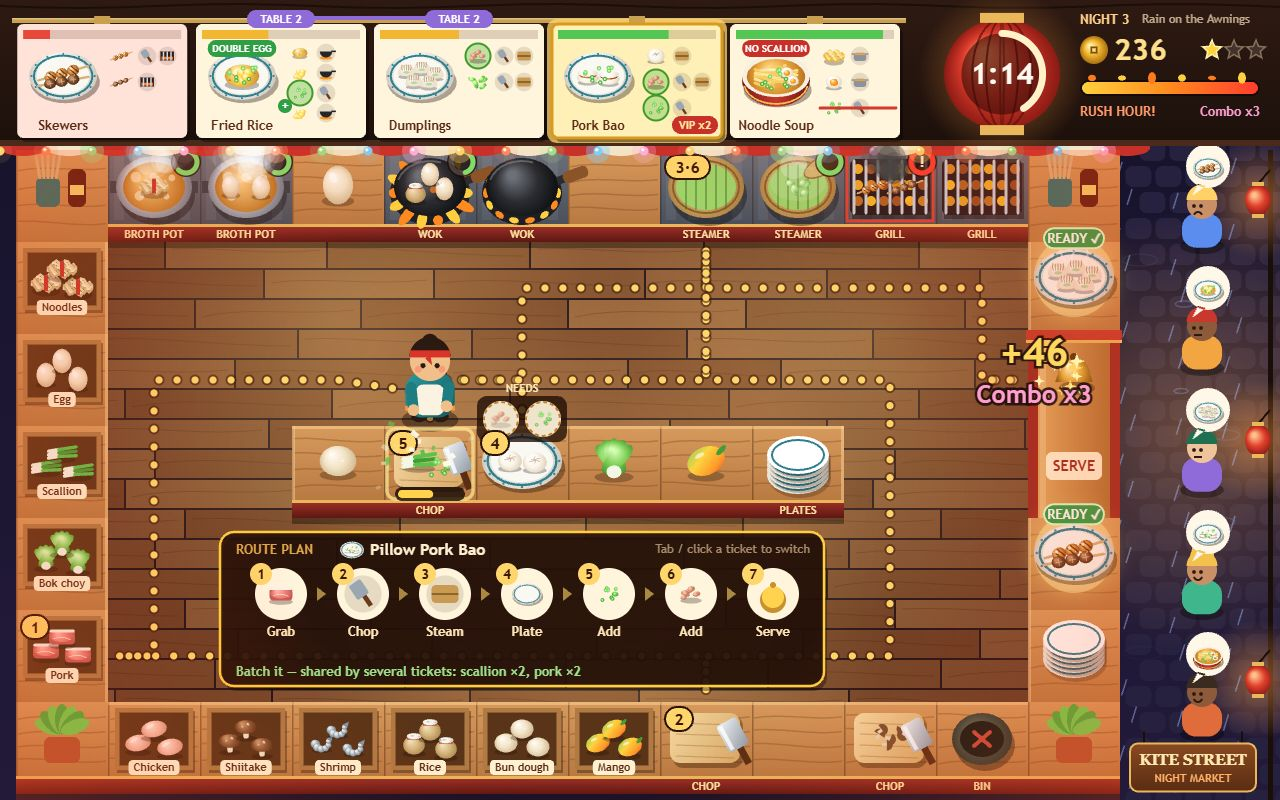
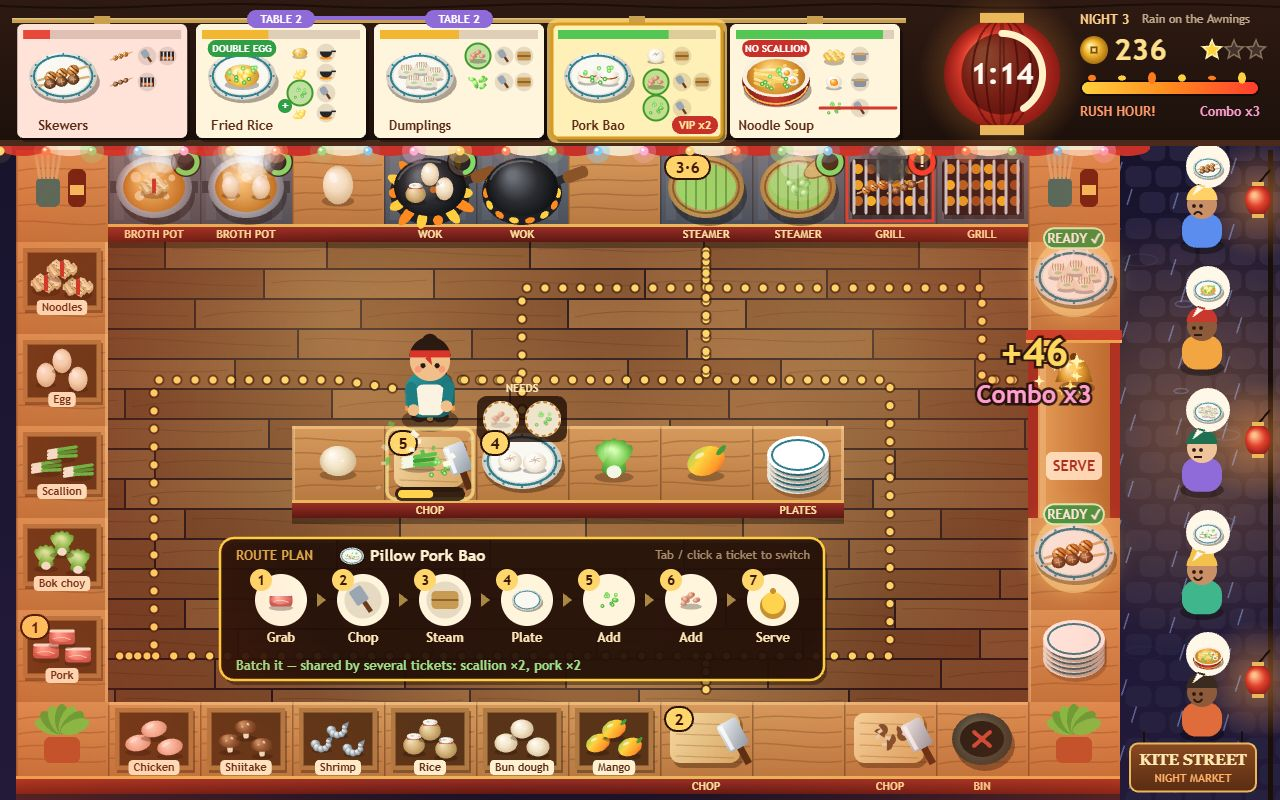
Last-call fireworks shot, shared parts in the recipe book, critic look, plating sparkle, play-test extras and upgrades; README; LF endings

Changed region(s): [[0.1562, 0.6562, 0.6562, 0.875]]

diff --git a/game/src/shots.js b/game/src/shots.js
@@ -1,4 +1,4 @@
-// The deterministic screenshot scenes behind ?shot=rush|rush-hour|recipes|results.
+// The deterministic screenshot scenes behind ?shot=rush|last-call|recipes|results.
 import { STEP } from './config.js';
 import { createRandom } from './random.js';
 import { createShift } from './shift.js';
@@ -123,37 +123,40 @@ function stageRush(seed) {
 	return { state, screen: 'play', ui: { time: 0 } };
 }
 
-function stageRushHour(seed) {
+function stageLastCall(seed) {
 	const state = createShift(3, createRandom(seed));
-	state.timeLeft = 106;
+	state.timeLeft = 24;
 	state.rushAnnounced = true;
-	state.banner = { text: 'Rush hour!', sub: 'The lanterns are lit and the street is full', time: 1.2 };
-	state.coins = 168;
-	state.combo = 4;
-	state.bestCombo = 4;
+	state.banner = null;
+	state.coins = 318;
+	state.combo = 5;
+	state.bestCombo = 6;
 	setOrders(state, [
-		['shrimpsoup', 0.3],
-		['dumplings', 0.5],
-		['mango', 0.64],
-		['bao', 0.8],
-		['friedrice', 0.96],
+		['shrimpsoup', 0.3, { table: 5 }],
+		['mango', 0.52, { table: 5, extra: extraByLabel('mango', 'Extra mango') }],
+		['friedrice', 0.62, { critic: true }],
+		['soup', 0.78, { extra: extraByLabel('soup', 'Add shrimp') }],
+		['dumplings', 0.95],
 	]);
-	state.orders[3].vip = true;
+	state.focusId = state.orders[1].id;
+	cook(state, 1, 0, 'noodles', 'raw', 1.1);
+	cook(state, 1, 0, 'egg', 'raw', 1.1);
 	cook(state, 4, 0, 'rice', 'raw', 0.7);
 	cook(state, 4, 0, 'egg', 'raw', 0.7);
-	cook(state, 2, 0, 'noodles', 'raw', 0.3);
-	cook(state, 7, 0, 'rice', 'raw', 0.85);
 	cook(state, 8, 0, 'pork', 'chopped', 0.5);
 	cook(state, 8, 0, 'cabbage', 'chopped', 0.5);
-	cook(state, 10, 0, 'shrimp', 'raw', 2.4);
-	at(state, 5, 3).held = plate('bun:steamed');
-	at(state, 6, 3).held = item('mango', 'chopped');
-	at(state, 3, 3).held = item('noodles');
-	at(state, 9, 6).held = item('mushroom', 'raw', 0.3);
-	at(state, 7, 6).held = item('scallion', 'chopped');
-	state.player.held = plate('noodles:boiled', 'shrimp:grilled', 'scallion:chopped');
-	placeCook(state, 10, 2, 1, 0, 30);
-	settle(state, 1.6);
+	cook(state, 9, 0, 'shrimp', 'raw', 0.8);
+	cook(state, 10, 0, 'shrimp', 'raw', 1.4);
+	at(state, 5, 3).held = plate('rice:steamed');
+	at(state, 7, 3).held = plate('noodles:boiled', 'scallion:chopped');
+	at(state, 4, 3).held = item('scallion', 'chopped');
+	at(state, 3, 3).held = item('egg');
+	state.player.held = item('mango');
+	placeCook(state, 9, 5, 0, 1, 0);
+	settle(state, 1.2);
+	const hatch = tileCenter(11, 2);
+	floatText(state.fx, hatch.x - 40, hatch.y + 10, 'Table served! +20', '#8fe0ff', 20, 1.5);
+	updateEffects(state.fx, 0.1);
 	return { state, screen: 'play', ui: { time: 0 } };
 }
 
@@ -194,7 +197,7 @@ function stageResults(seed) {
 }
 
 export function stageShot(name, seed) {
-	if (name === 'rush-hour') return stageRushHour(seed);
+	if (name === 'last-call') return stageLastCall(seed);
 	if (name === 'recipes') return stageRecipeBook(seed);
 	if (name === 'results') return stageResults(seed);
 	return stageRush(seed);

diff --git a/game/src/screens.js b/game/src/screens.js
@@ -144,7 +144,7 @@ function drawControls(ctx, y) {
 	ctx.fillText('Cook several things at once: a pot, wok, steamer or grill holds three. Serve fast for tips; serve in a row for a combo. Food left on the heat burns.', VIEW_W / 2, y + 44);
 }
 
-export function drawRecipeCard(ctx, id, x, y, w, h, t) {
+export function drawRecipeCard(ctx, id, x, y, w, h, t, menu) {
 	const recipe = RECIPES[id];
 	panel(ctx, x, y, w, h, '#fff4dc');
 	drawDish(ctx, id, x + 70, y + h / 2 + 4, 50, t, true);
@@ -164,10 +164,21 @@ export function drawRecipeCard(ctx, id, x, y, w, h, t) {
 			tx += 28;
 		}
 		ctx.fillText('›', tx - 8, py);
+		const shared = menu.filter((m) => RECIPES[m].parts.includes(part)).length;
+		if (shared > 1) {
+			circle(ctx, tx + 18, py, 16, 'rgba(120,200,90,0.35)');
+			ctx.strokeStyle = '#3f9a2c';
+			ctx.lineWidth = 2;
+			ctx.stroke();
+			rrect(ctx, x + w - 84, py - 10, 70, 20, 10, '#3f9a2c');
+			text(ctx, `in ${shared} dishes`, x + w - 49, py + 1, `bold 12px ${FONT}`, '#fff');
+			ctx.fillStyle = '#6a3a1e';
+			ctx.textAlign = 'left';
+		}
 		drawIngredient(ctx, { kind: 'item', ing, state }, tx + 18, py, 32);
 		ctx.fillStyle = '#6a3a1e';
 		ctx.font = `14px ${FONT}`;
-		ctx.fillText(`${INGREDIENTS[ing].name}: ${route.map((tool) => TOOL_VERBS[tool]).join(', then ')}`, x + 338, py + 1);
+		ctx.fillText(`${INGREDIENTS[ing].name}: ${route.map((tool) => TOOL_VERBS[tool]).join(' › ')}`, x + 338, py + 1);
 	});
 	ctx.fillStyle = '#a8701e';
 	ctx.font = `bold 14px ${FONT}`;
@@ -181,7 +192,7 @@ export function drawPause(ctx, state, t) {
 	text(ctx, 'Paused · Recipe Book', VIEW_W / 2, 70, `bold 46px ${TITLE_FONT}`, '#ffe9b0');
 	ctx.fillStyle = '#ffcf8a';
 	ctx.font = `16px ${FONT}`;
-	ctx.fillText('Each part shows its route: the raw ingredient, the tools in order, and how it goes on the plate.', VIEW_W / 2, 112);
+	ctx.fillText('Each part: raw ingredient › tools in order › plated. Green parts go in several dishes, so prep them in a batch.', VIEW_W / 2, 112);
 	const menu = state.menu;
 	const cols = menu.length > 4 ? 2 : 1;
 	const w = cols === 2 ? 560 : 600;
@@ -190,12 +201,12 @@ export function drawPause(ctx, state, t) {
 		const col = cols === 2 ? i % 2 : 0;
 		const row = cols === 2 ? Math.floor(i / 2) : i;
 		const x = cols === 2 ? VIEW_W / 2 - w - 12 + col * (w + 24) : VIEW_W / 2 - w / 2;
-		drawRecipeCard(ctx, id, x, 138 + row * (h + 12), w, h, t);
+		drawRecipeCard(ctx, id, x, 138 + row * (h + 12), w, h, t, menu);
 	});
 	ctx.fillStyle = '#fff2d8';
 	ctx.font = `bold 18px ${FONT}`;
 	ctx.textAlign = 'center';
-	ctx.fillText('P / Esc / click to keep cooking · Q to leave the night', VIEW_W / 2, VIEW_H - 22);
+	ctx.fillText('Tickets may ask for extras: no scallion, double egg, add shrimp…  ·  P / Esc to cook on  ·  Q to leave', VIEW_W / 2, VIEW_H - 22);
 }
 
 export function upgradeRects() {

diff --git a/game/src/route-guide.js b/game/src/route-guide.js
@@ -105,7 +105,7 @@ function pathPoints(state, stops) {
 
 /** The dotted, marching path from the cook through every stop. */
 export function drawRoutePath(ctx, state, plan, t) {
-	if (!plan?.stops.length) return;
+	if (!plan?.stops.length) return [];
 	const pts = pathPoints(state, plan.stops);
 	ctx.save();
 	let carry = (t * 40) % 18;
@@ -123,6 +123,7 @@ export function drawRoutePath(ctx, state, plan, t) {
 		if (carry < 0) carry += 18;
 	}
 	ctx.restore();
+	return pts;
 }
 
 /** Step numbers on the stations the plan visits. */
@@ -168,9 +169,14 @@ export function sharedParts(orders) {
 	return new Map([...count].filter(([, n]) => n > 1));
 }
 
-/** The plan card on the floor: which ticket, its stops in order, and what to batch. */
-export function drawRouteCard(ctx, state, plan, x, y, w, h, t) {
+/** The plan card on the floor band (front or back) the path crosses least: the ticket, its stops, what to batch. */
+export function drawRouteCard(ctx, state, plan, pts, t) {
 	if (!plan) return;
+	const x = 220;
+	const w = 604;
+	const h = 142;
+	const hits = (y0) => pts.filter((p) => p.x > x && p.x < x + w && p.y > y0 && p.y < y0 + h).length;
+	const y = hits(538) <= hits(246) ? 538 : 246;
 	const { order } = plan;
 	rrect(ctx, x + 3, y + 5, w, h, 14, 'rgba(0,0,0,0.35)');
 	rrect(ctx, x, y, w, h, 14, 'rgba(36,16,8,0.9)');

diff --git a/game/src/feedback.js b/game/src/feedback.js
@@ -26,6 +26,10 @@ export function applyFeedback(state) {
 			case 'pickup':
 			case 'place':
 				emit(fx, random, 'steam', p.x, p.y - 10, 3, { speed: 25, life: 0.35, size: 6 });
+				if (e.what?.kind === 'plate' && e.what.items.length) {
+					emit(fx, random, 'spark', p.x, p.y - 12, 7, { colors: ['#fff4b0', '#ffffff'], speed: 90, life: 0.45, size: 6 });
+					fx.shake = Math.max(fx.shake, 0.06);
+				}
 				break;
 			case 'cooked':
 				emit(fx, random, 'spark', p.x, p.y - 20, 10, { color: '#c8ff8a', speed: 100, life: 0.6, size: 7 });
@@ -52,6 +56,8 @@ export function applyFeedback(state) {
 				floatText(fx, p.x - 30, p.y - 50, `+${e.coins}`, '#ffd85e', 34, 1.5);
 				if (e.combo > 1) floatText(fx, p.x - 30, p.y - 10, `Combo x${e.combo}`, '#ff9fd0', 22, 1.4);
 				if (e.vip) floatText(fx, p.x - 30, p.y + 24, 'VIP pays double!', '#ffe066', 20, 1.6);
+				if (e.critic) floatText(fx, p.x - 30, p.y + 24, 'Critic: ★★★ pays triple!', '#d9b8ff', 20, 1.8);
+				if (e.table) floatText(fx, p.x - 30, p.y + 52, `Table served! +${e.table}`, '#8fe0ff', 20, 1.8);
 				fx.flash = 0.35;
 				fx.flashColor = '#fff3c4';
 				fx.coinPop = 1;

diff --git a/game/src/people-art.js b/game/src/people-art.js
@@ -114,7 +114,15 @@ function drawCustomer(ctx, order, x, y, t) {
 	ctx.beginPath();
 	ctx.arc(cx, y - 16, 15, 0, TAU);
 	ctx.fill();
-	ctx.fillStyle = order.vip ? '#f2c14e' : HATS[order.customer % HATS.length];
+	if (order.critic) {
+		oval(ctx, cx + 2, y - 30, 19, 7, '#4a2a7a');
+		circle(ctx, cx + 4, y - 37, 3, '#4a2a7a');
+		rrect(ctx, cx + 10, y - 2, 14, 18, 2, '#fffbe8');
+		ctx.strokeStyle = '#c8a050';
+		ctx.lineWidth = 1.5;
+		ctx.strokeRect(cx - 12, y - 18, 8, 8);
+	}
+	ctx.fillStyle = order.vip ? '#f2c14e' : order.critic ? '#4a2a7a' : HATS[order.customer % HATS.length];
 	ctx.beginPath();
 	ctx.arc(cx, y - 20, 15.5, Math.PI, TAU);
 	ctx.fill();

diff --git a/game/src/render.js b/game/src/render.js
@@ -48,8 +48,7 @@ export function createRenderer(canvas) {
 		const plan = focus ? planRoute(state, focus) : null;
 		ctx.drawImage(staticLayer(kitchen), 0, 0);
 		if (plan) {
-			drawRoutePath(ctx, state, plan, t);
-			drawRouteCard(ctx, state, plan, 220, 532, 604, 154, t);
+			drawRouteCard(ctx, state, plan, drawRoutePath(ctx, state, plan, t), t);
 		}
 		drawNightSky(ctx, state.nightIndex, t);
 		drawCustomers(ctx, state.orders, t);
